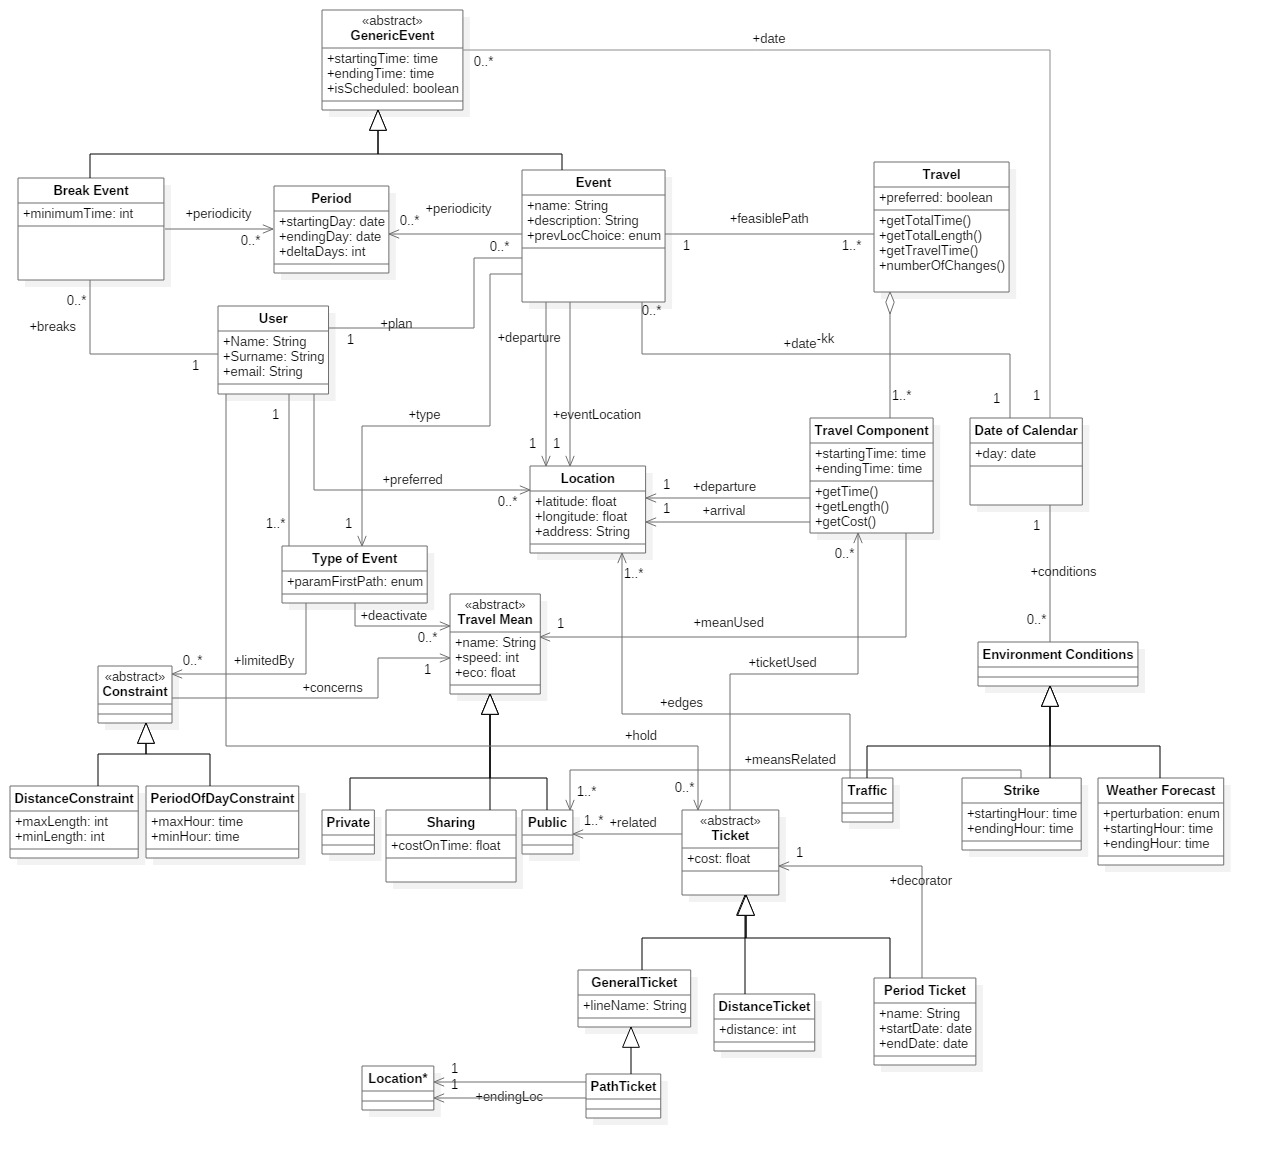
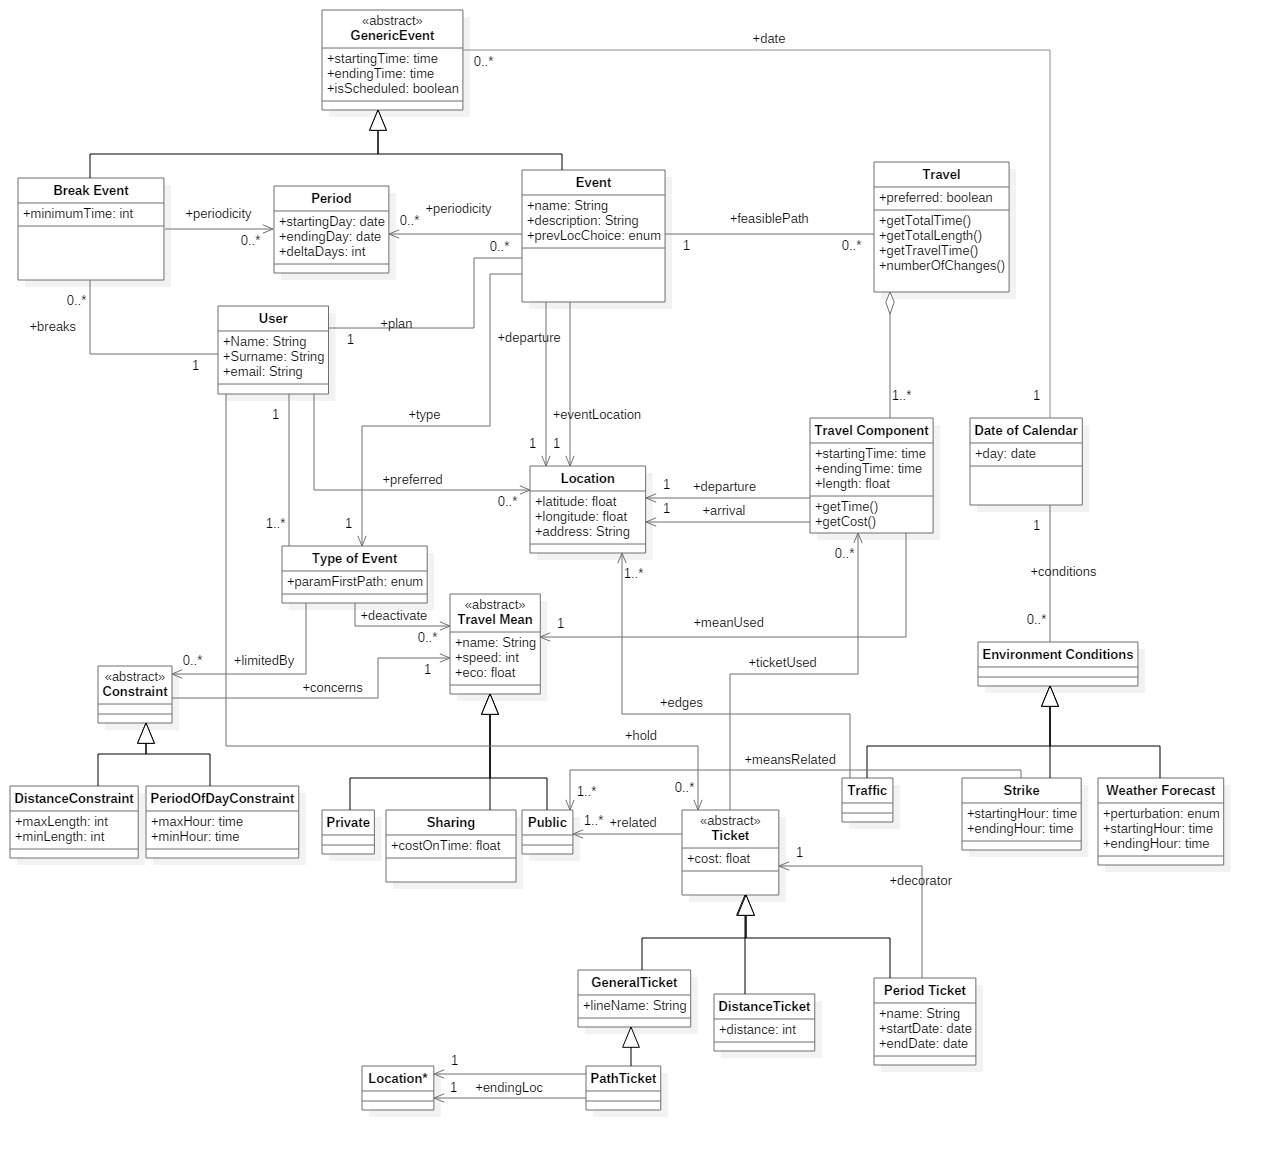
Definition in glossary

diff --git a/RASD/1-Introduction/definitions.tex b/RASD/1-Introduction/definitions.tex
@@ -1,0 +1,17 @@
+\subsection{Definitions}
+	\begin{itemize}
+	\item Arrange trip: the system provides to the user all information about a travel. If the travel is related to one or more public travel means, the system helps the user to organize it. It is indicated if the user already holds a valid ticket for a certain travel or if he has to buy a required one. Purchase of a ticket is handled on the transport services' sites. Trip and travel are synonymous.
+	\item Best path: it is the preferred travel option proposed to reach the event location among the feasible paths, according to a parameter specified by the user. Best path can be chosen according to one of these features: length, cost or environmental sustainability. Best path is the path taken into account and showed in the daily schedule; the user can substitute it with an alternative feasible path. 
+	\item Break event: it is an optional event whose starting and ending time are flexible. The user can define this kind of event when he wants to reserve a certain amount of time in the schedule and he doesn't need to specify a starting time. For instance, a user could be able to specify that lunch must be possible every day between 11:30-
+2:30, and it must be at least half an hour long, but the specific timing is flexible. The app would then be sure to reserve, if possible, at least 30 minutes for lunch each day.
+	\item Constraint: it is a rule defined on travel means by the user. When the system calculates feasible paths each constraint must be taken into account: travel options opposed to constraints are ignored. A constraint can be associated to a type of event. There are different types of constraint: min/max distance allowed for a mean, interval of hour in which it is possible to take a mean and possibility to deactivate a mean. 
+	\item Feasible path: a path that allows the user to reach a specified location before the event to attend starts and observes the constraints defined for that event.  
+	\item Google maps API: a set of functions offered by Google Maps to decide  the path between two locations.
+	\item Overlapping event: an event (or a part of it) that happen in the same time of another event, added previously in the schedule. Because the schedule must be feasible, an event is considered as "overlapping" also if only its related travel overlap an event present into the schedule.
+	\item Periodicity: it is related to events that occur more than one time. It can be defined as weekly, monthly or in which days of week the event happen.
+	\item Schedule: a daily plan with a set of events inserted by the user that allows him to travel and attend all the events. If an event overlap other events, it can not be inserted into the schedule. 
+	\item Type of event: a set of rules (constraints) that is defined by the user and can be associated to a specific event several times.
+	\item Transport service provider: a public or private company that controls and supplies the transport with a travel mean. 
+	\item Travel: it is used to indicate the path that the user has to go across in order to reach a location. It can be made by several travel components.
+	\item Travel component: each single path that can be done with a travel mean. It has a starting and ending time, a departure and arrival location and a length. The union of one or more travel components creates a travel.
+	\end{itemize}

diff --git a/RASD/RASD.tex b/RASD/RASD.tex
@@ -59,7 +59,6 @@
 		\section{Definitions, Acronyms, Abbreviations}
 		\label{sect:Definitions, Acronyms, Abbreviations}
 			\input{./1-Introduction/definitions.tex}
-			\todo{TODO}
 			\input{./1-Introduction/acronyms.tex}
 			\input{./1-Introduction/abbreviations.tex}
 			
